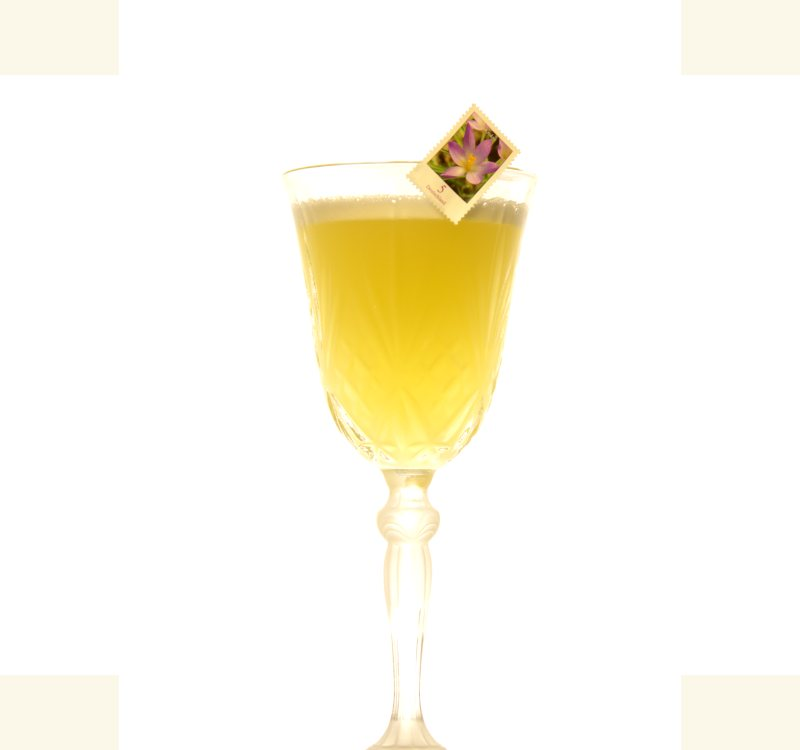
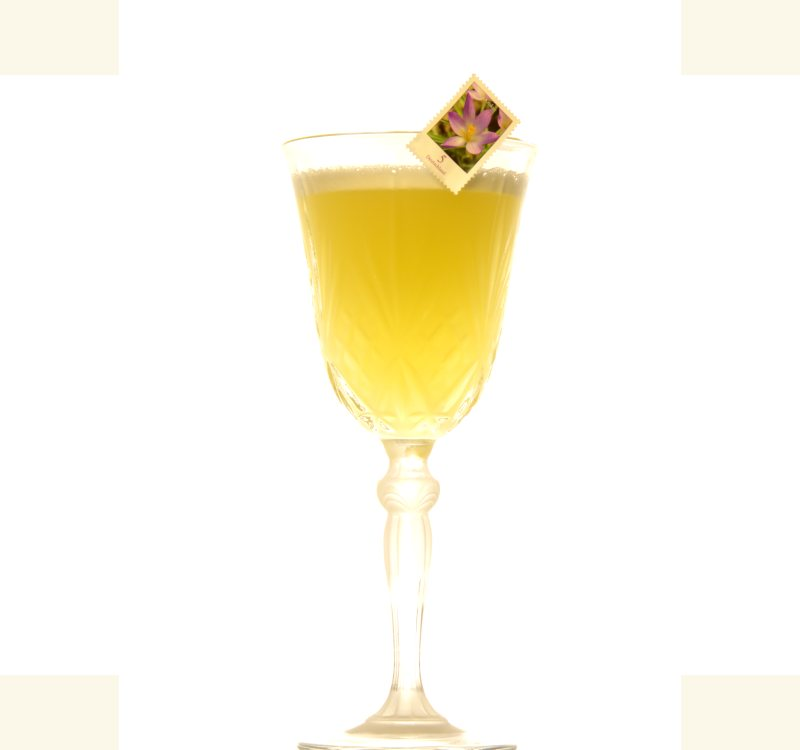
Croix de cadrage : garniture secondaire rognable (v0.40.2)
Paille, rondelle ou feuilles qui se devinent même coupées ne comptent plus dans
le haut à garder : Aperol Spritz, Aguapanela, Blue Hawaiian, Air Mail, Arnold
Palmer, Agua de sandía, Bloody Mary, Black Manhattan, Bramble, Blue Lagoon,
Americano. Le cadrage se centre mieux sur le verre et l'Aguapanela retrouve sa croix.

Claude-Session: https://claude.ai/code/session_01MGrXtKPwEujzpoV9NF5CqB

diff --git a/app.js b/app.js
@@ -1,7 +1,7 @@
 /* Zeste : logique de l'application. Les données de départ sont dans data.js. */
 'use strict';
 
-const APP_VERSION = '0.40.1';
+const APP_VERSION = '0.40.2';
 const KEY = 'zeste-v1';
 const UNITS = ['ml', 'cl', ['oz', 'oz (→ ml)'], ['cup', 'cup (→ ml)'], 'g', ['', 'sans unité'], 'trait', 'goutte', 'c. de bar', 'c. à café', 'c. à soupe', 'pièce', 'feuille', 'brin', 'quartier', 'tranche', 'pincée', 'à compléter'];
 const PLURAL_UNITS = ['trait', 'goutte', 'pièce', 'feuille', 'brin', 'quartier', 'tranche', 'pincée'];

diff --git a/sw.js b/sw.js
@@ -1,6 +1,6 @@
 /* Zeste : fonctionnement hors ligne.
    Changer VERSION à chaque mise en ligne : les appareils proposent alors la mise à jour. */
-const VERSION = 'zeste-0.40.1';
+const VERSION = 'zeste-0.40.2';
 const ASSETS = [
   './', 'index.html', 'app.css', 'app.js', 'data.js', 'infos.js', 'manifest.webmanifest',
   'icons/icon.svg', 'icons/icon-192.png', 'icons/icon-512.png', 'icons/icon-maskable-192.png', 'icons/icon-maskable-512.png', 'icons/apple-touch-icon.png', 'icons/favicon-32.png',

diff --git a/README.md b/README.md
@@ -43,7 +43,7 @@ Format « en croix », centré sur le verre, pour un seul fichier par recette qu
 - la **colonne centrale**, large des 3/4 de la hauteur de l'image, sur toute la hauteur (600 à 1000 px) : cadrage portrait (3:4), utilisé par les cartes de l'accueil ;
 - les **quatre coins** ne servent à aucun cadrage : couleur unie, qui ne pèse presque rien.
 
-Les deux cadrages ont le même centre, placé sur le verre : chaque cadre de l'appli (4:3, 16:9, 3:4, carré) reste centré sur lui. Quand le verre est plus haut que la bande paysage, c'est le haut du verre (bord et garniture) qui est gardé : la bande paysage commence juste au-dessus, et seul le pied peut être coupé. Une photo 800 × 600 classique fonctionne aussi.
+Les deux cadrages ont le même centre, placé sur le verre : chaque cadre de l'appli (4:3, 16:9, 3:4, carré) reste centré sur lui. Quand le verre est plus haut que la bande paysage, c'est le haut du verre (bord et garniture) qui est gardé : la bande paysage commence juste au-dessus, et seul le pied peut être coupé. Une garniture qui se devine même rognée (paille, rondelle sur le bord) peut être coupée en haut ; une garniture essentielle (tour de citron du Crusta…) jamais. Une photo 800 × 600 classique fonctionne aussi.
 
 ## Photos et licences
 
